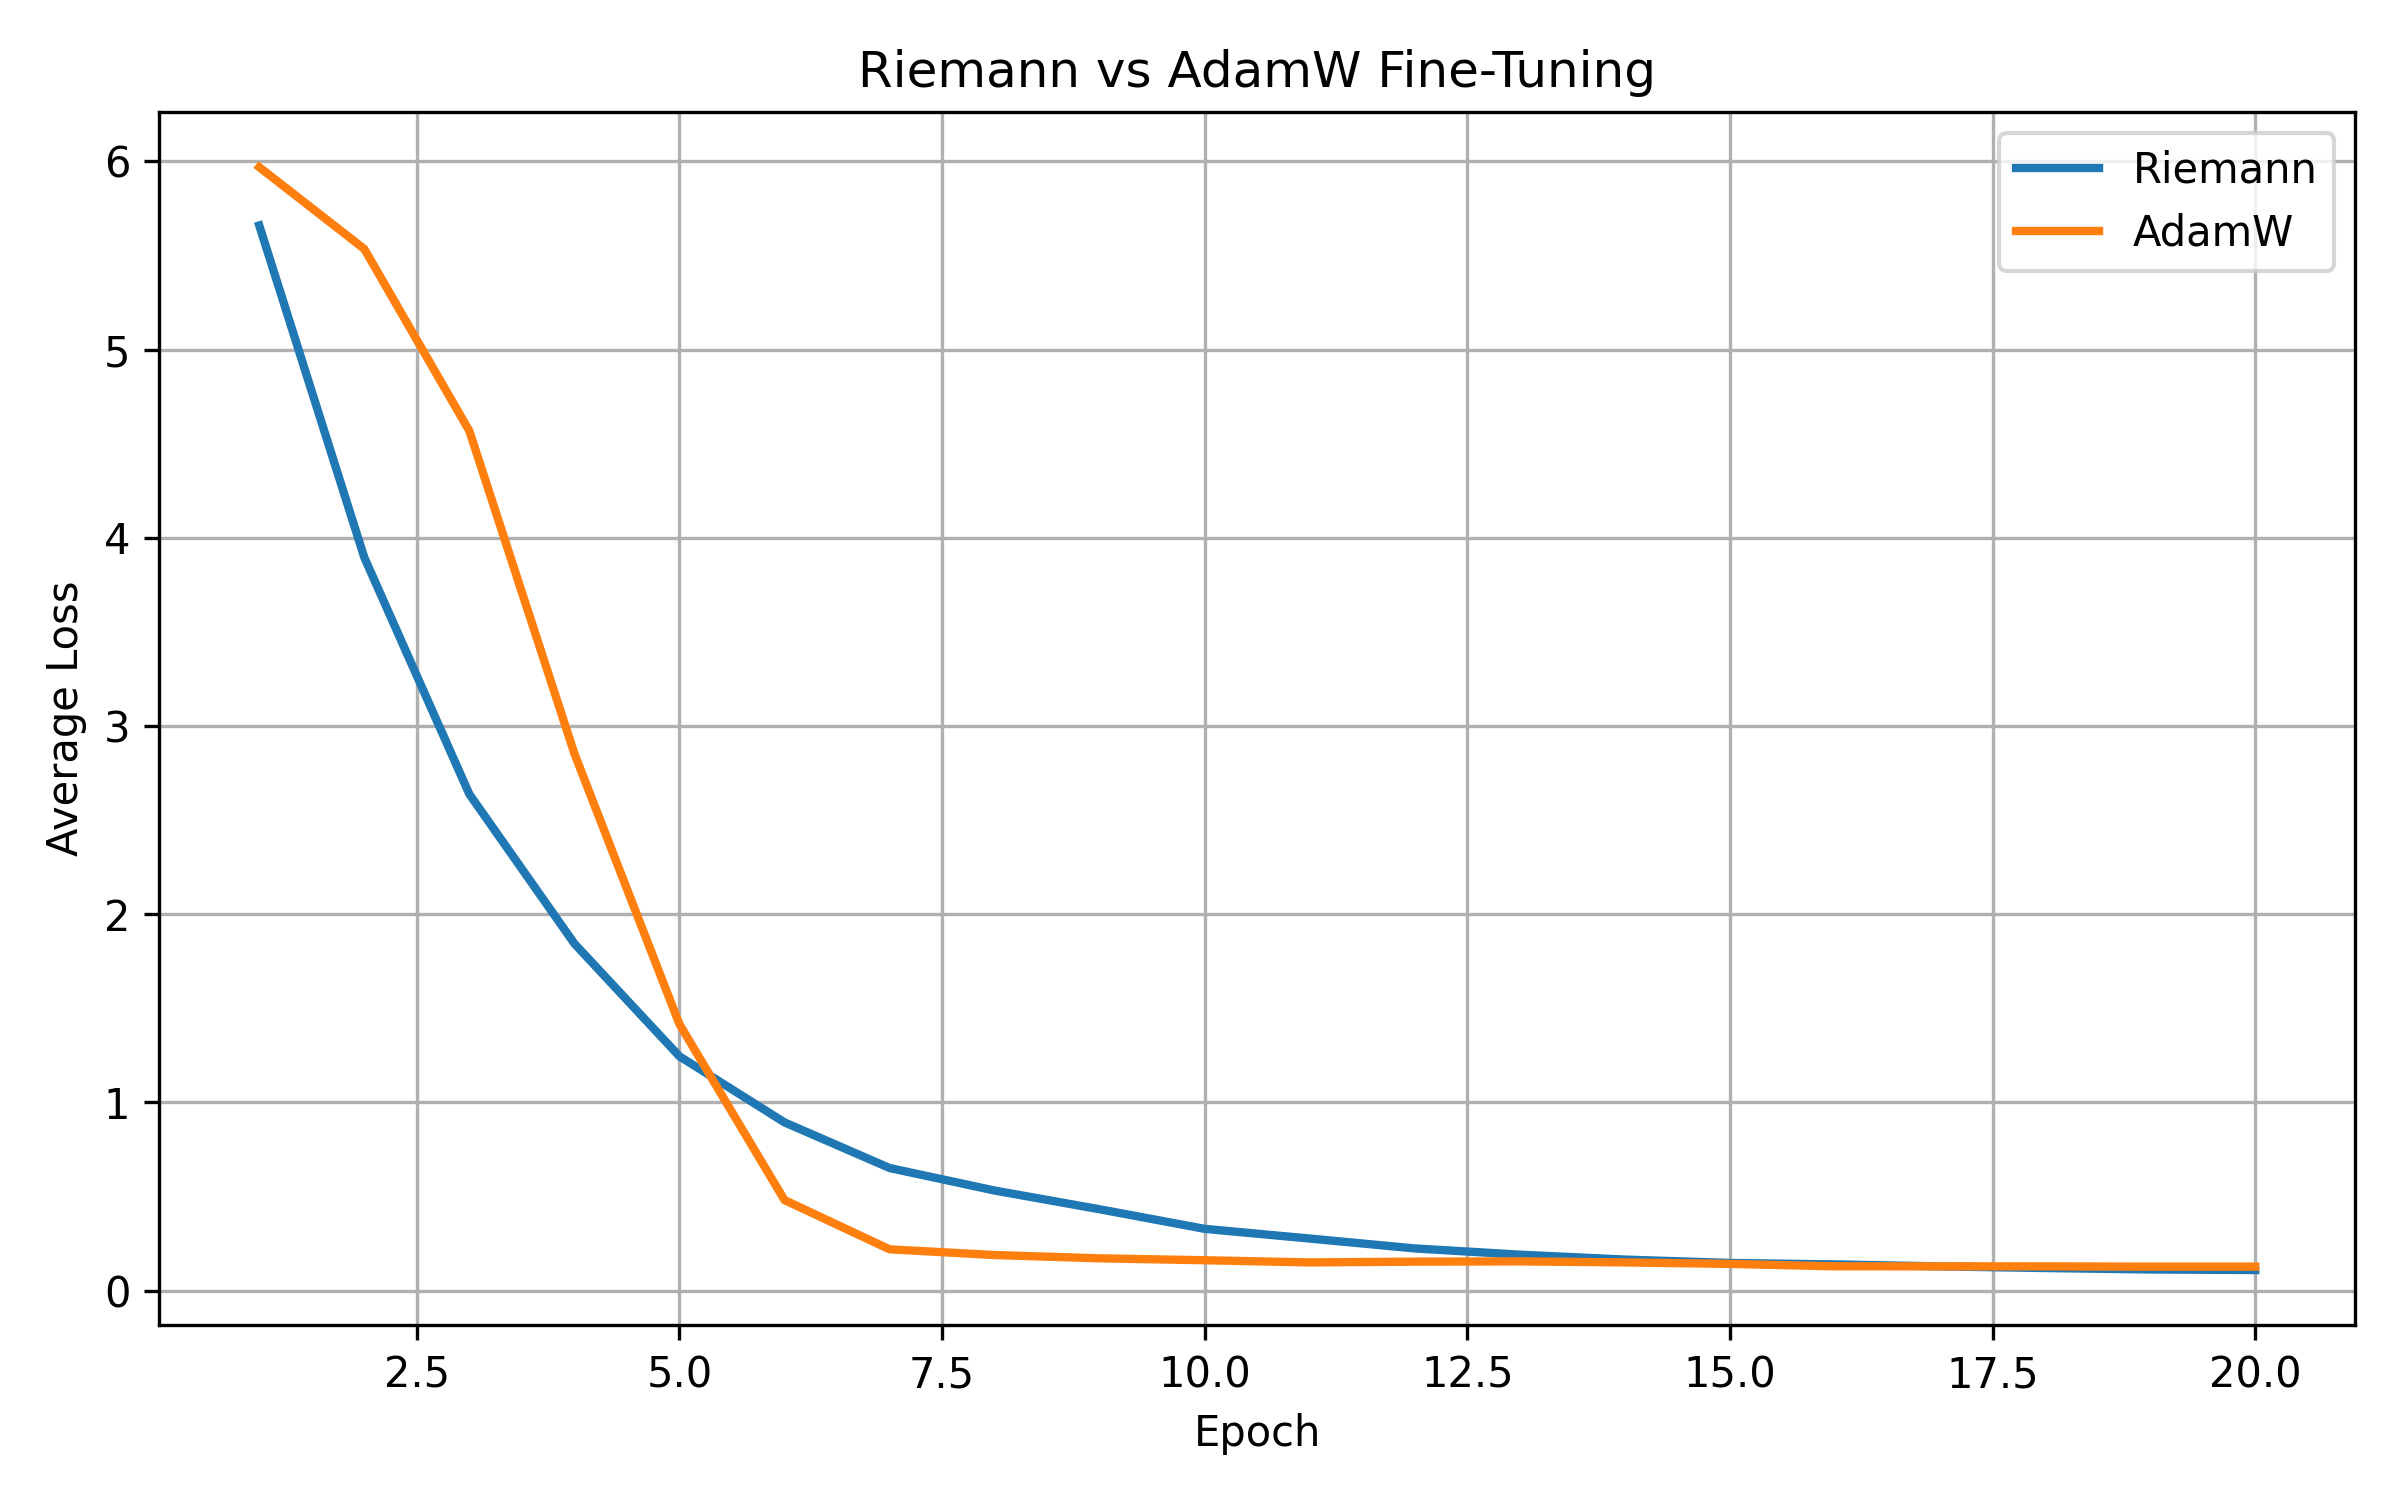
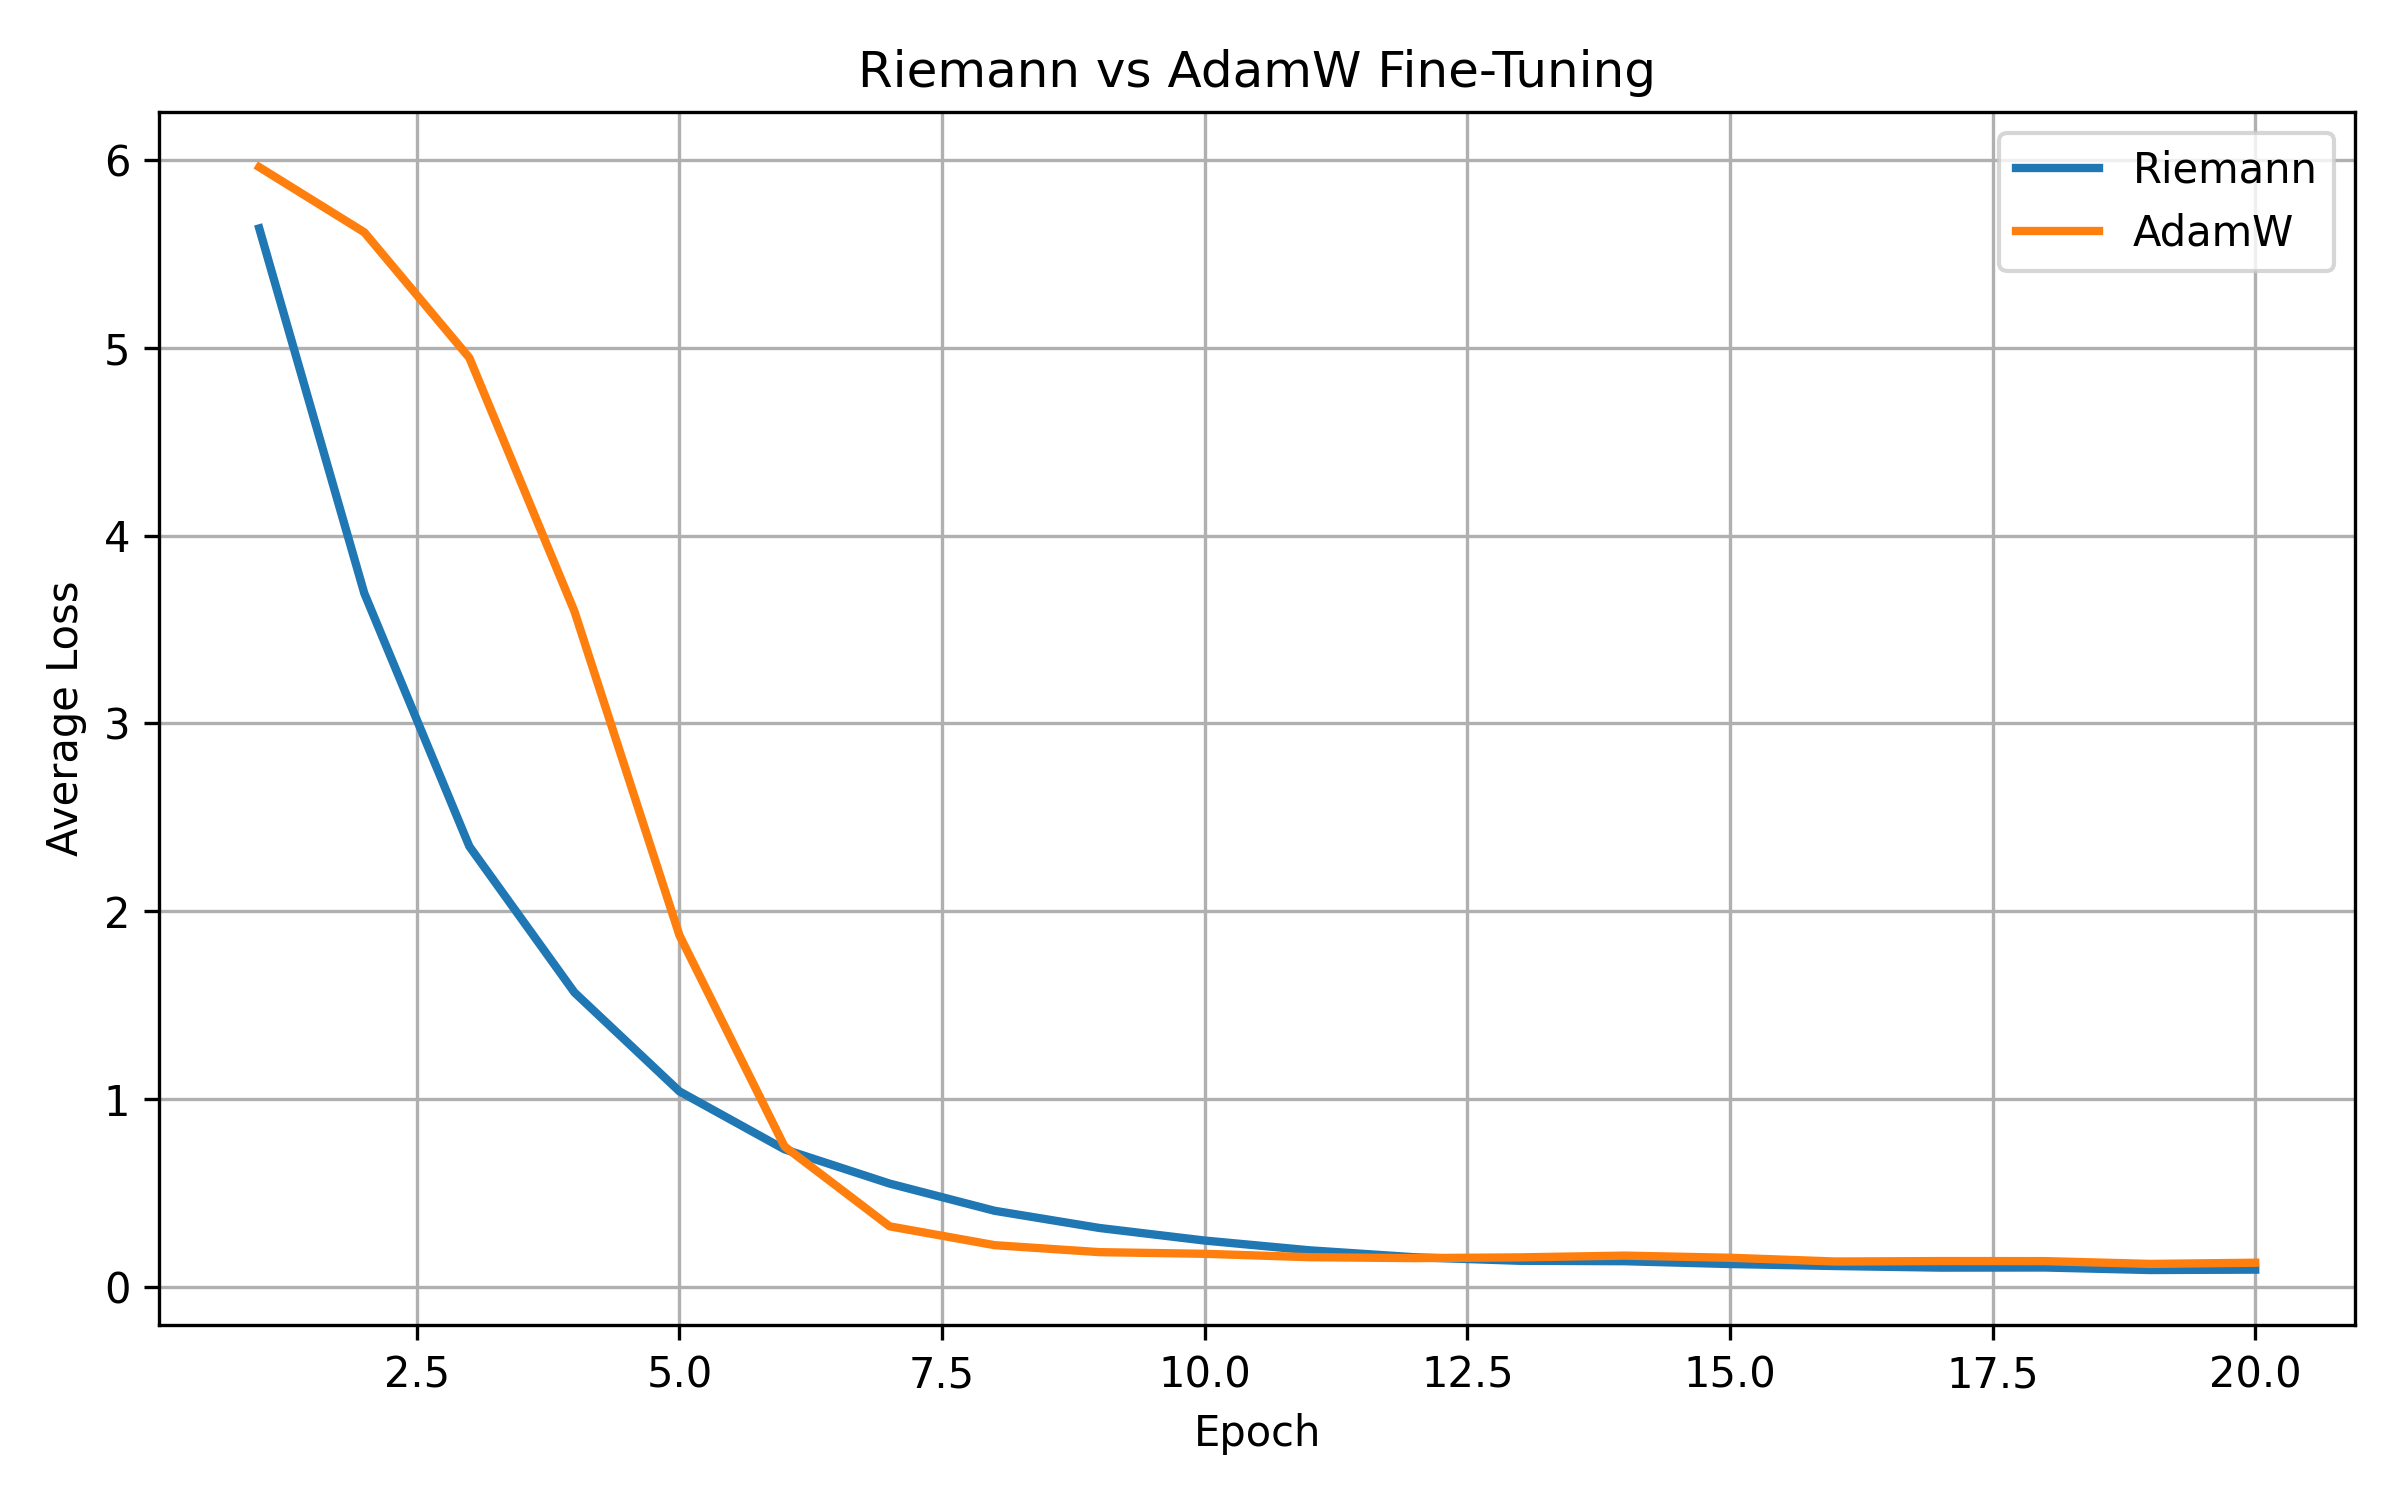
A little refactoring and small fixes

Changed region(s): [[0.0625, 0.1227, 0.9688, 0.8587]]

diff --git a/r_optimizer.py b/r_optimizer.py
@@ -16,7 +16,7 @@ def assert_finite(name, x):
         raise RuntimeError(f"{name} became non-finite")
 
 class FrSpecMuon(Optimizer):
-    def __init__(self, model, lr=1e-3, beta = 0): #no momentum by default
+    def __init__(self, model, lr=1e-3, betas = (0,0)): #no momentum by default
 
 
         param_groups = []
@@ -42,8 +42,8 @@ class FrSpecMuon(Optimizer):
         for group in param_groups:
             assert "riemann" in group
             if group["riemann"]:
-                group["lr"] = group.get("lr", 0.02)
-                group["betas"] = (beta, 0.95)
+                group["lr"] = group.get("lr", lr)
+                group["betas"] = group.get("betas", betas)
                 group["weight_decay"] = group.get("weight_decay", 0)
                 assert set(group.keys()) == set(["params", "lr", "betas", "weight_decay", "riemann"])
                

diff --git a/tinygpt_test.py b/tinygpt_test.py
@@ -19,12 +19,12 @@ model = TinyGPT2.from_pretrained(
 non_riemann_model = copy.deepcopy(model)
 
 # Turns the linear layers of the model into LoRAed versions
-riemannize(model, 20, exclusions=[model.lm_head])
+riemannize(model, 40, exclusions=[model.lm_head])
 
 riemann_optimizer = FrSpecMuon(
     model,
     lr=1e-3,
-    beta = 0.9
+    betas = (0.9, 0.95)
 )
 
 nonriemann_optimizer = torch.optim.AdamW(
@@ -136,7 +136,7 @@ with open("kjv.txt", "r") as f:
 
 # Testing what the fine tune does at the end. Not strictly part of the actual comparison, just for fun
 my_input = torch.tensor(
-    tokenizer.encode("The lord said  "),
+    tokenizer.encode("The LORD said "),
     dtype=torch.long,
 ).to(device)
 

diff --git a/riemann_layers.py b/riemann_layers.py
@@ -18,6 +18,7 @@ class RiemannianLinear(nn.Module):
     ):
         super().__init__()
 
+        #Make sure the update isn't actually higher rank than the original weights
         self.rank = min(out_features // 2, rank)
         self.in_features = in_features
         self.out_features = out_features
